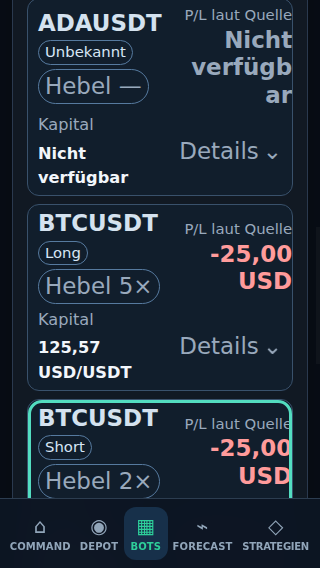
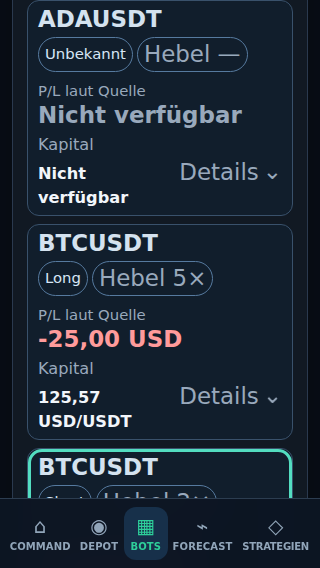
Keep Bot amounts readable at enlarged text

diff --git a/test/v11-b11-bot-cockpit-chrome.test.js b/test/v11-b11-bot-cockpit-chrome.test.js
@@ -87,7 +87,7 @@ function createShellServer() {
   });
 }
 
-test('V11 B11 actual shell: mixed synthetic snapshot, investigation context and invalidation at five viewports',
+test('V11 B11 actual shell: mixed synthetic snapshot, investigation context and invalidation at six viewports',
   {timeout:180000},async()=>{
     if(typeof WebSocket!=='function'){
       const env={...process.env};delete env.NODE_TEST_CONTEXT;
@@ -95,15 +95,16 @@ test('V11 B11 actual shell: mixed synthetic snapshot, investigation context and 
         {env,encoding:'utf8',timeout:175000});
       assert.equal(child.status,0,String(child.stdout).slice(-3000)+String(child.stderr).slice(-1000));
       const rows=child.stdout.split('\n').filter(line=>line.includes('V11_B11_SIZE'));
-      assert.equal(rows.length,5);rows.forEach(row=>console.log(row));return;
+      assert.equal(rows.length,6);rows.forEach(row=>console.log(row));return;
     }
     assert.ok(chrome,'Chrome required; actual-shell acceptance must not silently skip');
     const server=createShellServer();
     await new Promise(resolve=>server.listen(0,'127.0.0.1',resolve));
     const url=`http://127.0.0.1:${server.address().port}/v11/index.html`;
-    const sizes=[{width:320,height:568,mobile:true},{width:375,height:667,mobile:true},
+    const sizes=[{width:320,height:568,mobile:true},{width:355,height:700,mobile:true},{width:375,height:667,mobile:true},
       {width:390,height:844,mobile:true},{width:430,height:932,mobile:true},{width:1440,height:900,mobile:false}];
     const evidence=process.env.V11_B11_EVIDENCE_DIR;
+    const screenshotWidths=new Set([320,390]);
     try{
       for(const size of sizes){
         const measurements=await withMobileChrome(chrome,size.width,url,async call=>{
@@ -186,8 +187,10 @@ test('V11 B11 actual shell: mixed synthetic snapshot, investigation context and 
           })()`);
           assert.equal(fresh.cards,6);assert.equal(new Set(fresh.ids).size,6);assert.equal(fresh.duplicate,2);
           assert.equal(fresh.count,true);assert.equal(fresh.commandState,'fresh');assert.equal(fresh.lossButtons,3);
-          assert.ok(fresh.cardHeights.every(height=>height>=44&&height<=150),JSON.stringify(fresh.cardGeometry));
-          if(size.width===390){
+          assert.ok(fresh.cardHeights.every(height=>height>=44&&height<=(size.width===320?180:150)),
+            JSON.stringify(fresh.cardGeometry));
+          let categoryFit=null;
+          if([355,375,390,430].includes(size.width)){
             const category=await evaluate(`(()=>{
               const select=document.getElementById('bot-category-filter');
               const canvas=document.createElement('canvas'),context=canvas.getContext('2d');
@@ -195,12 +198,16 @@ test('V11 B11 actual shell: mixed synthetic snapshot, investigation context and 
               return {label:select.labels[0].innerText,value:select.value,
                 text:select.selectedOptions[0].textContent,width:select.getBoundingClientRect().width,
                 textWidth:context.measureText(select.selectedOptions[0].textContent).width,
-                gridColumn:getComputedStyle(select.parentElement).gridColumn};
+                gridColumn:getComputedStyle(select.parentElement).gridColumn,
+                visible:select.getBoundingClientRect().left>=0&&select.getBoundingClientRect().right<=innerWidth&&
+                  select.scrollWidth<=select.clientWidth+1};
             })()`);
             assert.deepEqual({label:category.label,value:category.value,text:category.text},
               {label:'Kontraktart',value:'all',text:'Alle Kontraktarten'});
             assert.ok(category.width>=category.textWidth+40,JSON.stringify(category));
-            assert.equal(category.gridColumn,'1 / -1',JSON.stringify(category));
+            assert.equal(category.gridColumn,size.width<360?'auto':'1 / -1',JSON.stringify(category));
+            assert.equal(category.visible,true,JSON.stringify(category));
+            categoryFit={width:category.width,selectedTextWidth:category.textWidth,gridColumn:category.gridColumn};
           }
           assert.equal(new Set(fresh.referenceLabels).size,6,'duplicate symbols have distinct accessible names');
           assert.equal(fresh.referencesVisible,false,'full references stay out of collapsed visual cards');
@@ -292,7 +299,7 @@ test('V11 B11 actual shell: mixed synthetic snapshot, investigation context and 
             await evaluate(`document.querySelector('#bot-card-'+ '${ref}'.repeat(20)+' summary').focus()`);
             await key('Enter','Enter',13);
           }
-          if(evidence){
+          if(evidence&&screenshotWidths.has(size.width)){
             mkdirSync(evidence,{recursive:true});
             await evaluate("document.querySelector('#bot-read-root .bot-card').scrollIntoView({block:'start'})");
             assert.ok(await evaluate(`[...document.querySelectorAll('#bot-read-root .bot-card')]
@@ -301,29 +308,80 @@ test('V11 B11 actual shell: mixed synthetic snapshot, investigation context and 
             writeFileSync(join(evidence,`v11-bot-compact-${size.width}x${size.height}-bots.png`),
               Buffer.from(image.data,'base64'));
           }
+          let botLargeText=null;
           if(size.width===320){
             const normalHeights=await evaluate(`[...document.querySelectorAll('#bot-read-root .bot-card')].map(card=>card.getBoundingClientRect().height)`);
-            await evaluate(`(()=>{
+            const enlarged=await evaluate(`(()=>{
               const nodes=[...document.querySelectorAll('#bot-read-root .bot-card *')];
               const sizes=nodes.map(node=>parseFloat(getComputedStyle(node).fontSize));
               nodes.forEach((node,index)=>{if(Number.isFinite(sizes[index]))node.style.fontSize=(sizes[index]*1.35)+'px';});
-            })()`);
-            const enlarged=await evaluate(`(()=>{
               const cards=[...document.querySelectorAll('#bot-read-root .bot-card')];
+              const wordRects=node=>{
+                const text=node.firstChild;
+                if(!text||text.nodeType!==Node.TEXT_NODE)return [];
+                return [...text.textContent.matchAll(/\\S+/g)].map(match=>{
+                  const range=document.createRange();
+                  range.setStart(text,match.index);range.setEnd(text,match.index+match[0].length);
+                  return {word:match[0],rects:[...range.getClientRects()].map(rect=>({
+                    left:rect.left,right:rect.right,top:rect.top,bottom:rect.bottom}))};
+                });
+              };
+              const cardsText=cards.map(card=>{
+                const bounds=card.getBoundingClientRect();
+                const pnlNode=card.querySelector('.bot-card-pnl strong'),pnlRange=document.createRange();
+                pnlRange.selectNodeContents(pnlNode);
+                const pnlLabel=card.querySelector('.bot-card-pnl>span'),pnlLabelRange=document.createRange();
+                pnlLabelRange.selectNodeContents(pnlLabel);
+                const nodes=[card.querySelector('.bot-card-pnl>span'),card.querySelector('.bot-card-pnl strong'),
+                  ...card.querySelectorAll('.bot-card-capital>span,.bot-card-capital strong,.bot-card-badge')];
+                const texts=nodes.map(node=>{
+                  const rect=node.getBoundingClientRect();
+                  const words=wordRects(node);
+                  return {text:node.textContent,words,inside:rect.left>=bounds.left&&rect.right<=bounds.right&&
+                    rect.top>=bounds.top&&rect.bottom<=bounds.bottom&&node.scrollWidth<=node.clientWidth+1,
+                    wordsInside:words.every(word=>word.rects.length===1&&word.rects[0].left>=bounds.left&&
+                      word.rects[0].right<=bounds.right&&word.rects[0].top>=bounds.top&&
+                      word.rects[0].bottom<=bounds.bottom)};
+                });
+                return {id:card.id,pnl:pnlNode.textContent,pnlLineCount:pnlRange.getClientRects().length,
+                  pnlLabel:pnlLabel.textContent,pnlLabelLineCount:pnlLabelRange.getClientRects().length,
+                  capitalLabel:card.querySelector('.bot-card-capital>span').textContent,
+                  bounds:{left:bounds.left,right:bounds.right,width:bounds.width},
+                  pnlBounds:card.querySelector('.bot-card-pnl').getBoundingClientRect().toJSON(),
+                  height:card.getBoundingClientRect().height,texts};
+              });
+              const ratios=nodes.map((node,index)=>({
+                before:sizes[index],after:parseFloat(getComputedStyle(node).fontSize)}))
+                .filter(row=>Number.isFinite(row.before)&&row.before>0)
+                .map(row=>row.after/row.before);
               return {overflow:document.documentElement.scrollWidth>innerWidth+1,
                 heights:cards.map(card=>card.getBoundingClientRect().height),
                 targets:cards.every(card=>card.querySelector('summary').getBoundingClientRect().height>=44),
-                overlap:cards.some(card=>{
-                  const identity=card.querySelector('.bot-card-identity').getBoundingClientRect();
-                  const pnl=card.querySelector('.bot-card-pnl').getBoundingClientRect();
-                  return identity.right>pnl.left+1;
-                }),
-                clipping:cards.some(card=>card.scrollWidth>card.clientWidth+1)};
+                clipping:cards.some(card=>card.scrollWidth>card.clientWidth+1),
+                scale:ratios.length?{min:Math.min(...ratios),max:Math.max(...ratios),count:ratios.length}:null,
+                cardsText};
             })()`);
             assert.equal(enlarged.overflow,false,JSON.stringify(enlarged));
             assert.ok(enlarged.heights.every((height,index)=>height>=normalHeights[index]),JSON.stringify(enlarged));
-            assert.equal(enlarged.targets,true);assert.equal(enlarged.overlap,false);assert.equal(enlarged.clipping,false);
+            assert.equal(enlarged.targets,true,JSON.stringify(enlarged));
+            assert.equal(enlarged.clipping,false,JSON.stringify(enlarged));
+            assert.ok(enlarged.scale&&Math.abs(enlarged.scale.min-1.35)<0.01&&
+              Math.abs(enlarged.scale.max-1.35)<0.01,JSON.stringify(enlarged.scale));
+            assert.ok(enlarged.cardsText.every(card=>card.texts.every(text=>text.inside&&text.wordsInside)),
+              JSON.stringify(enlarged.cardsText));
+            assert.equal(enlarged.cardsText.find(card=>card.id.endsWith('d'.repeat(20)))?.pnl,'Nicht verfügbar');
+            assert.equal(enlarged.cardsText.find(card=>card.id.endsWith('f'.repeat(20)))?.pnl,'Nicht verfügbar');
+            assert.equal(enlarged.cardsText.find(card=>card.id.endsWith('e'.repeat(20)))?.pnl,'+<0,01 USD');
+            assert.ok(enlarged.cardsText.filter(card=>['a','b'].some(ref=>card.id.endsWith(ref.repeat(20))))
+              .every(card=>card.pnl==='-25,00 USD'));
+            assert.ok(enlarged.cardsText.every(card=>card.pnlLabel==='P/L laut Quelle'&&card.capitalLabel==='Kapital'));
+            assert.ok(enlarged.cardsText.every(card=>card.pnlLineCount===1&&card.pnlLabelLineCount===1),
+              JSON.stringify(enlarged.cardsText));
+            botLargeText={...enlarged,values:enlarged.cardsText.map(card=>({pnl:card.pnl,pnlLabel:card.pnlLabel,
+              capitalLabel:card.capitalLabel,height:card.height,pnlLineCount:card.pnlLineCount,
+              pnlLabelLineCount:card.pnlLabelLineCount}))};
             if(evidence){
+              await evaluate(`document.getElementById('bot-card-${'d'.repeat(20)}').scrollIntoView({block:'start'})`);
               const image=await call('Page.captureScreenshot',{format:'png',captureBeyondViewport:false});
               writeFileSync(join(evidence,'v11-bot-compact-320x568-enlarged-text.png'),Buffer.from(image.data,'base64'));
             }
@@ -375,7 +433,7 @@ test('V11 B11 actual shell: mixed synthetic snapshot, investigation context and 
           assert.match(await evaluate(`document.querySelector('#command-bot-overview .command-bot-metadata').innerText`),
             /Snapshot-Zeit exakt \(UTC\):\s*\d{4}-\d\d-\d\dT\d\d:\d\d:\d\d\.\d{3}Z/);
           await key('Enter','Enter',13);
-          if(evidence){
+          if(evidence&&screenshotWidths.has(size.width)){
             await evaluate("document.getElementById('command-bot-overview').scrollIntoView({block:'start'})");
             const image=await call('Page.captureScreenshot',{format:'png',captureBeyondViewport:false});
             writeFileSync(join(evidence,`v11-bot-compact-${size.width}x${size.height}-command.png`),
@@ -396,7 +454,7 @@ test('V11 B11 actual shell: mixed synthetic snapshot, investigation context and 
           })()`);
           assert.equal(commandLayout.overflow,false,JSON.stringify(commandLayout));
           if(size.width===320)assert.ok(commandLayout.identities.every(identity=>
-            identity.text.includes(' · ')&&identity.width>=160&&identity.lines<=2),
+            identity.text.includes(' · ')&&identity.width>=160&&identity.lines===1),
             JSON.stringify(commandLayout.identities));
           assert.ok(commandLayout.actionHeights.every(height=>height>=43.99),JSON.stringify(commandLayout));
           let commandLargeText=null;
@@ -429,11 +487,11 @@ test('V11 B11 actual shell: mixed synthetic snapshot, investigation context and 
             assert.equal(commandLargeText.overflow,false,JSON.stringify(commandLargeText));
             assert.equal(commandLargeText.overlap,false,JSON.stringify(commandLargeText));
             assert.ok(commandLargeText.identities.every(identity=>identity.text.includes(' · ')&&
-               identity.width>=160&&identity.lines<=2&&identity.detailsTop>=identity.buttonBottom-1),
+               identity.width>=160&&identity.lines===1&&identity.detailsTop>=identity.buttonBottom-1),
                JSON.stringify(commandLargeText.identities));
             assert.ok(commandLargeText.actionHeights.every(height=>height>=43.99),JSON.stringify(commandLargeText));
           }
-          if(evidence&&commandLargeText){
+          if(evidence&&commandLargeText&&screenshotWidths.has(size.width)){
             const enlargedShot=await call('Page.captureScreenshot',{format:'png',captureBeyondViewport:false});
             writeFileSync(join(evidence,`v11-bot-compact-${size.width}x${size.height}-command-enlarged-text.png`),
               Buffer.from(enlargedShot.data,'base64'));
@@ -578,7 +636,7 @@ test('V11 B11 actual shell: mixed synthetic snapshot, investigation context and 
           })()`);
           assert.equal(finalLayout.overflow,false);assert.equal(finalLayout.navHeight,true);
           assert.equal(finalLayout.lastClear,true);
-          if(evidence){
+          if(evidence&&screenshotWidths.has(size.width)){
             mkdirSync(evidence,{recursive:true});
             await evaluate("document.getElementById('bot-read-root').scrollIntoView({block:'start'})");
             const image=await call('Page.captureScreenshot',{format:'png',captureBeyondViewport:false});
@@ -588,7 +646,7 @@ test('V11 B11 actual shell: mixed synthetic snapshot, investigation context and 
           return {width:size.width,height:size.height,mixedRows:fresh.cards,
             collapsedCardHeights:fresh.cardHeights,requests:await evaluate('window.__botReads'),
             filtersNoRequest:true,commandJumpFocused:jump.focused,statesCleared:true,
-            overflow:finalLayout.overflow,controls44px:fresh.touch,commandLayout,commandLargeText};
+            overflow:finalLayout.overflow,controls44px:fresh.touch,categoryFit,botLargeText,commandLayout,commandLargeText};
         },size.height);
         console.log('V11_B11_SIZE',`${size.width}x${size.height}`,JSON.stringify(measurements));
       }

diff --git a/test/v11-terminal-entry.test.js b/test/v11-terminal-entry.test.js
@@ -434,7 +434,7 @@ const botPresentationCssAfter=`    .bot-read-view .bot-card-list{list-style:none
     .command-bot-overview .command-bot-details>summary{min-width:44px;white-space:nowrap}
     .command-bot-details p+p{margin-top:5px}
     @media(min-width:360px) and (max-width:559px){.bot-overview-filters>div:nth-of-type(3){grid-column:1/-1}}
-    @media(max-width:350px){.command-bot-row{grid-template-columns:minmax(0,1fr)}.command-bot-overview .command-bot-jump{display:grid;grid-template-columns:minmax(0,1fr);justify-content:stretch;align-items:start}.command-bot-overview .command-bot-jump>span:first-child{min-width:0;overflow-wrap:normal;word-break:normal}.command-bot-pnl{max-width:100%;overflow-wrap:normal}}
+    @media(max-width:350px){.bot-card-top{grid-template-columns:minmax(0,1fr)}.bot-card-pnl{justify-items:start;text-align:left}.bot-card-pnl>span{white-space:normal}.bot-card-pnl strong{min-width:0;max-width:100%;overflow-wrap:break-word;word-break:normal}.bot-card-capital strong{overflow-wrap:break-word;word-break:normal}.bot-card-badge{overflow-wrap:normal;word-break:normal}.command-bot-row{grid-template-columns:minmax(0,1fr)}.command-bot-overview .command-bot-jump{display:grid;grid-template-columns:minmax(0,1fr);justify-content:stretch;align-items:start}.command-bot-overview .command-bot-jump>span:first-child{min-width:0;overflow-wrap:normal;word-break:normal}.command-bot-pnl{max-width:100%;overflow-wrap:normal}}
 `;
 const botReadControls=`        <div class="bot-access-controls">
           <label for="bot-read-token">Asset-Watch-Link oder Meridian-Lesepasswort</label>
@@ -1093,9 +1093,10 @@ async function browserRun(call,start,width,height,server){
       assert.equal(await evaluate(`document.getElementById('bot-read-root').textContent.includes('synthetic-b3-token')`),false);
       const cardMetrics=()=>evaluate(`(()=>{const c=document.querySelector('#bot-read-root .bot-card'),s=c.querySelector('summary'),r=s.getBoundingClientRect(),nav=document.querySelector('#nav').getBoundingClientRect();return {open:c.open,text:s.textContent,body:document.body.scrollWidth,root:document.documentElement.scrollWidth,summaryHeight:r.height,cardHeight:c.getBoundingClientRect().height,collapsedCards:[...document.querySelectorAll('#bot-read-root .bot-card:not([open])')].map(card=>card.getBoundingClientRect().height),navTop:nav.top,display:getComputedStyle(s).display,textUnrotated:[...s.querySelectorAll('.bot-card-heading,.bot-card-pnl,.bot-card-capital')].every(n=>getComputedStyle(n).transform==='none'),headingWidth:s.querySelector('.bot-card-heading').getBoundingClientRect().width,phrasing:s.querySelectorAll('dl,div,p').length};})()`);
       let card=await cardMetrics();
-      assert.equal(card.open,false);assert.equal(card.display,'grid');assert.equal(card.textUnrotated,true);assert.ok(card.headingWidth>48,'symbol has usable line width');assert.equal(card.phrasing,0);assert.ok(card.summaryHeight>=44&&card.summaryHeight<=150);
+      const maxCardHeight=width===320?180:150;
+      assert.equal(card.open,false);assert.equal(card.display,'grid');assert.equal(card.textUnrotated,true);assert.ok(card.headingWidth>48,'symbol has usable line width');assert.equal(card.phrasing,0);assert.ok(card.summaryHeight>=44&&card.summaryHeight<=maxCardHeight);
       assert.match(card.text,/3×/);assert.match(card.text,/0,42 ETH/);assert.match(card.text,/-12,50 USD/);
-      assert.ok(card.collapsedCards.length===2&&card.collapsedCards.every(value=>value>=44&&value<=150),
+      assert.ok(card.collapsedCards.length===2&&card.collapsedCards.every(value=>value>=44&&value<=maxCardHeight),
         'collapsed card heights at '+width+': '+JSON.stringify(card.collapsedCards));
       console.log('V11_BOT_COMPACT_MEASURE',JSON.stringify({width,height,collapsedCardHeights:card.collapsedCards}));
       assert.equal(await evaluate(`getComputedStyle(document.querySelector('#bot-read-root .bot-pnl-negative')).color`),'rgb(255, 155, 155)');

diff --git a/v11/index.html b/v11/index.html
@@ -231,7 +231,7 @@
     .command-bot-overview .command-bot-details>summary{min-width:44px;white-space:nowrap}
     .command-bot-details p+p{margin-top:5px}
     @media(min-width:360px) and (max-width:559px){.bot-overview-filters>div:nth-of-type(3){grid-column:1/-1}}
-    @media(max-width:350px){.command-bot-row{grid-template-columns:minmax(0,1fr)}.command-bot-overview .command-bot-jump{display:grid;grid-template-columns:minmax(0,1fr);justify-content:stretch;align-items:start}.command-bot-overview .command-bot-jump>span:first-child{min-width:0;overflow-wrap:normal;word-break:normal}.command-bot-pnl{max-width:100%;overflow-wrap:normal}}
+    @media(max-width:350px){.bot-card-top{grid-template-columns:minmax(0,1fr)}.bot-card-pnl{justify-items:start;text-align:left}.bot-card-pnl>span{white-space:normal}.bot-card-pnl strong{min-width:0;max-width:100%;overflow-wrap:break-word;word-break:normal}.bot-card-capital strong{overflow-wrap:break-word;word-break:normal}.bot-card-badge{overflow-wrap:normal;word-break:normal}.command-bot-row{grid-template-columns:minmax(0,1fr)}.command-bot-overview .command-bot-jump{display:grid;grid-template-columns:minmax(0,1fr);justify-content:stretch;align-items:start}.command-bot-overview .command-bot-jump>span:first-child{min-width:0;overflow-wrap:normal;word-break:normal}.command-bot-pnl{max-width:100%;overflow-wrap:normal}}
     #app[hidden],#app-access-gate[hidden]{display:none!important}
     .app-access-gate{min-height:100vh;min-height:100dvh;display:grid;place-items:center;padding:24px max(16px,env(safe-area-inset-left,0px))}
     .app-access-card{width:min(100%,440px);padding:24px;border:1px solid #39516b;border-radius:18px;background:linear-gradient(160deg,#172337,#111b29);box-shadow:0 12px 30px #00000025}

diff --git a/docs/v11/BOT_PRESENTATION_DELIVERY.md b/docs/v11/BOT_PRESENTATION_DELIVERY.md
@@ -22,15 +22,23 @@ before images are unchanged.
 [After at 320×568 with enlarged text](evidence/b11-bots-presentation/after-320x568-enlarged-text.png)
 
 At 320px, Command rows stack the identity, signed P/L, and native Details
-disclosure. The identity remains on one rendered line at normal and 1.35×
-descendant text sizes; the 390px contract-type filter gives the full selected
-“Alle Kontraktarten” option its own grid row.
+disclosure. Their identities remain on one rendered line at normal and 1.35×
+descendant text sizes. In the 320px enlarged Bot cards, P/L labels and signed
+amounts remain fully visible on one line; “Nicht verfügbar” is not split inside
+either word. Text scales by exactly 1.35× without reducing font sizes. Card
+content wraps naturally, with a maximum measured height of 215.91px and no
+clipping or horizontal overflow.
 
 The 1.35× browser check scales computed font sizes only on descendants of the
-Bot cards and Command overview; it does not enlarge the whole page or global
-text. Generated 20-bot snapshots at 320px and 390px confirmed that the labeled
-filters and refresh/lock controls remain before and reachable ahead of the card
-list, with no horizontal overflow and keyboard jump/return preserving selection.
+Bot cards and Command overview (306 Bot descendant elements in the 320px fixture);
+it does not enlarge the whole page or global text. Generated 20-bot snapshots
+at 320px and 390px confirmed that the labeled filters and refresh/lock controls
+remain before and reachable ahead of the card list, with no horizontal overflow
+and keyboard jump/return preserving selection. The selected “Alle Kontraktarten”
+fit is measured in the actual control at 355, 375, 390, and 430px: its widths
+were 289, 309, 324, and 364px respectively, versus 127.18px of measured option
+text. These filter measurements are test evidence; the card-only screenshots
+do not show the filter control.
 
 ## Command overview
 
@@ -54,26 +62,26 @@ preview remains a draft.
 [Command at 320×568 with 1.35× text](evidence/b11-bots-presentation/command-320x568-enlarged-text.png)
 
 For the fixture's three negative-P/L Command rows, heights measured 121px at
-320px width, 46–61px at 375px, and 46px at 390px, 430px, and 1440px. At 320px,
-identity text occupied 244px and one line. With 1.35× descendant text, rows
-grew naturally to 134.63px; identity remained one line and Details stayed below
-the jump button without overlap or horizontal overflow. Row controls remained
-at least 44px tall.
+320px width, 46–61px at 355px and 375px, and 46px at 390px, 430px, and 1440px.
+At 320px, identity text occupied 244px and one line. With 1.35× descendant
+text, rows grew naturally to 134.63px; identity remained one line and Details
+stayed below the jump button without overlap or horizontal overflow. Row
+controls remained at least 44px tall.
 
-Actual-shell Chromium checks passed at 320×568, 375×667, 390×844, 430×932
-and 1440×900. The largest collapsed card measured 148.39px at 320px width;
-maximums at 375px, 390px and 430px were 117.28px, and all cards measured
-110.64px at 1440px. Enlarged text grew naturally without overlap, clipping or
-horizontal overflow. Visible filter/action controls and disclosures meet the
-44px touch-target minimum. The run covered keyboard Command jump/return,
-same-snapshot disclosure persistence, filters without extra reads, and clearing
-on new, locked, stale and error states.
+Actual-shell Chromium checks passed at 320×568, 355×700, 375×667, 390×844,
+430×932, and 1440×900. Maximum collapsed card heights were 169.53px at 320px,
+134.39px at 355px, 117.28px at 375px, 390px, and 430px, and 110.64px at 1440px.
+At 320px with 1.35× descendant text, the maximum card height was 215.91px.
+Visible filter/action controls and disclosures meet the 44px touch-target
+minimum. The run covered keyboard Command jump/return, same-snapshot disclosure
+persistence, filters without extra reads, and clearing on new, locked, stale,
+and error states.
 
 Focused validation commands and totals:
 
 - `node --test test/v11-bot-read-view.test.js` — 33 tests passed.
-- `CHROME_BIN=/usr/bin/chromium V11_B11_EVIDENCE_DIR=/tmp/m11-visual-evidence node --experimental-websocket test/v11-b11-bot-cockpit-chrome.test.js`
-  — 1 actual-shell Chromium test passed, including five standard viewports and
+- `CHROME_BIN=/usr/bin/chromium V11_B11_EVIDENCE_DIR=/tmp/m11-visual-evidence-r2 node --experimental-websocket test/v11-b11-bot-cockpit-chrome.test.js`
+  — 1 actual-shell Chromium test passed, including six viewports and
   generated 20-bot runs at 320px and 390px.
 - `node --experimental-websocket test/v11-terminal-entry.test.js` — 3 tests passed, including
   five viewport runs and exact reversible source-delta checks.
